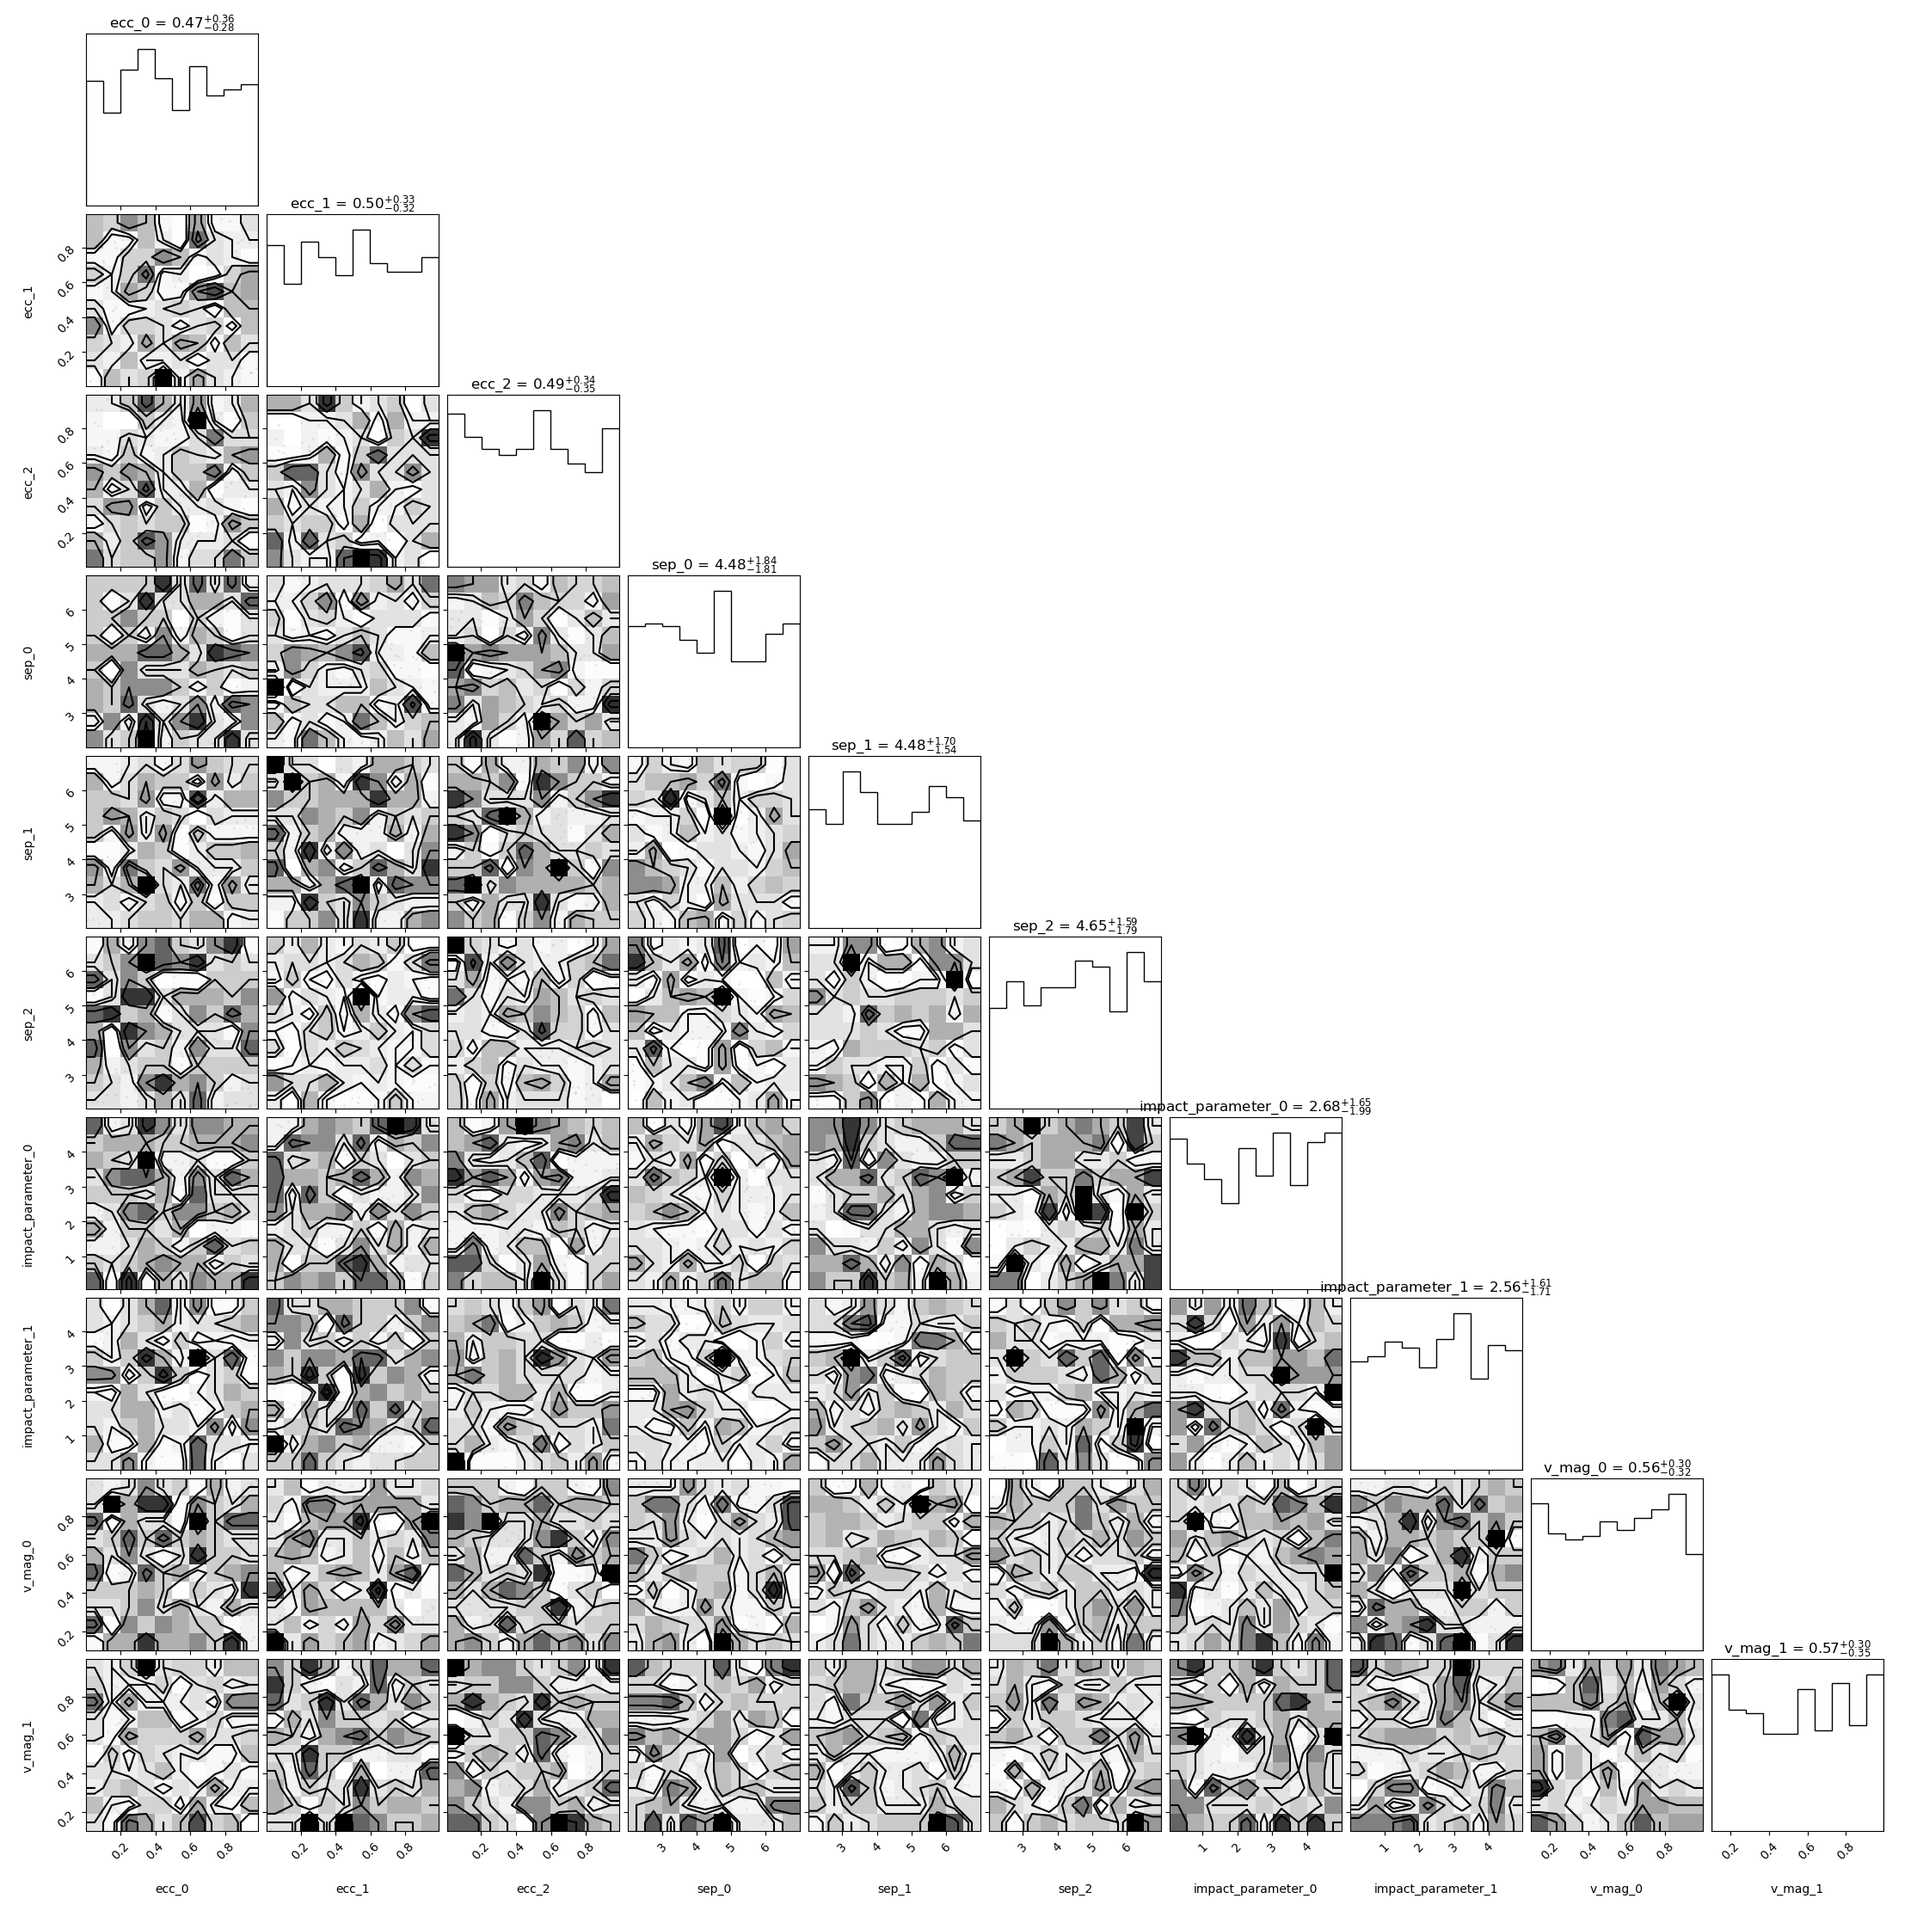
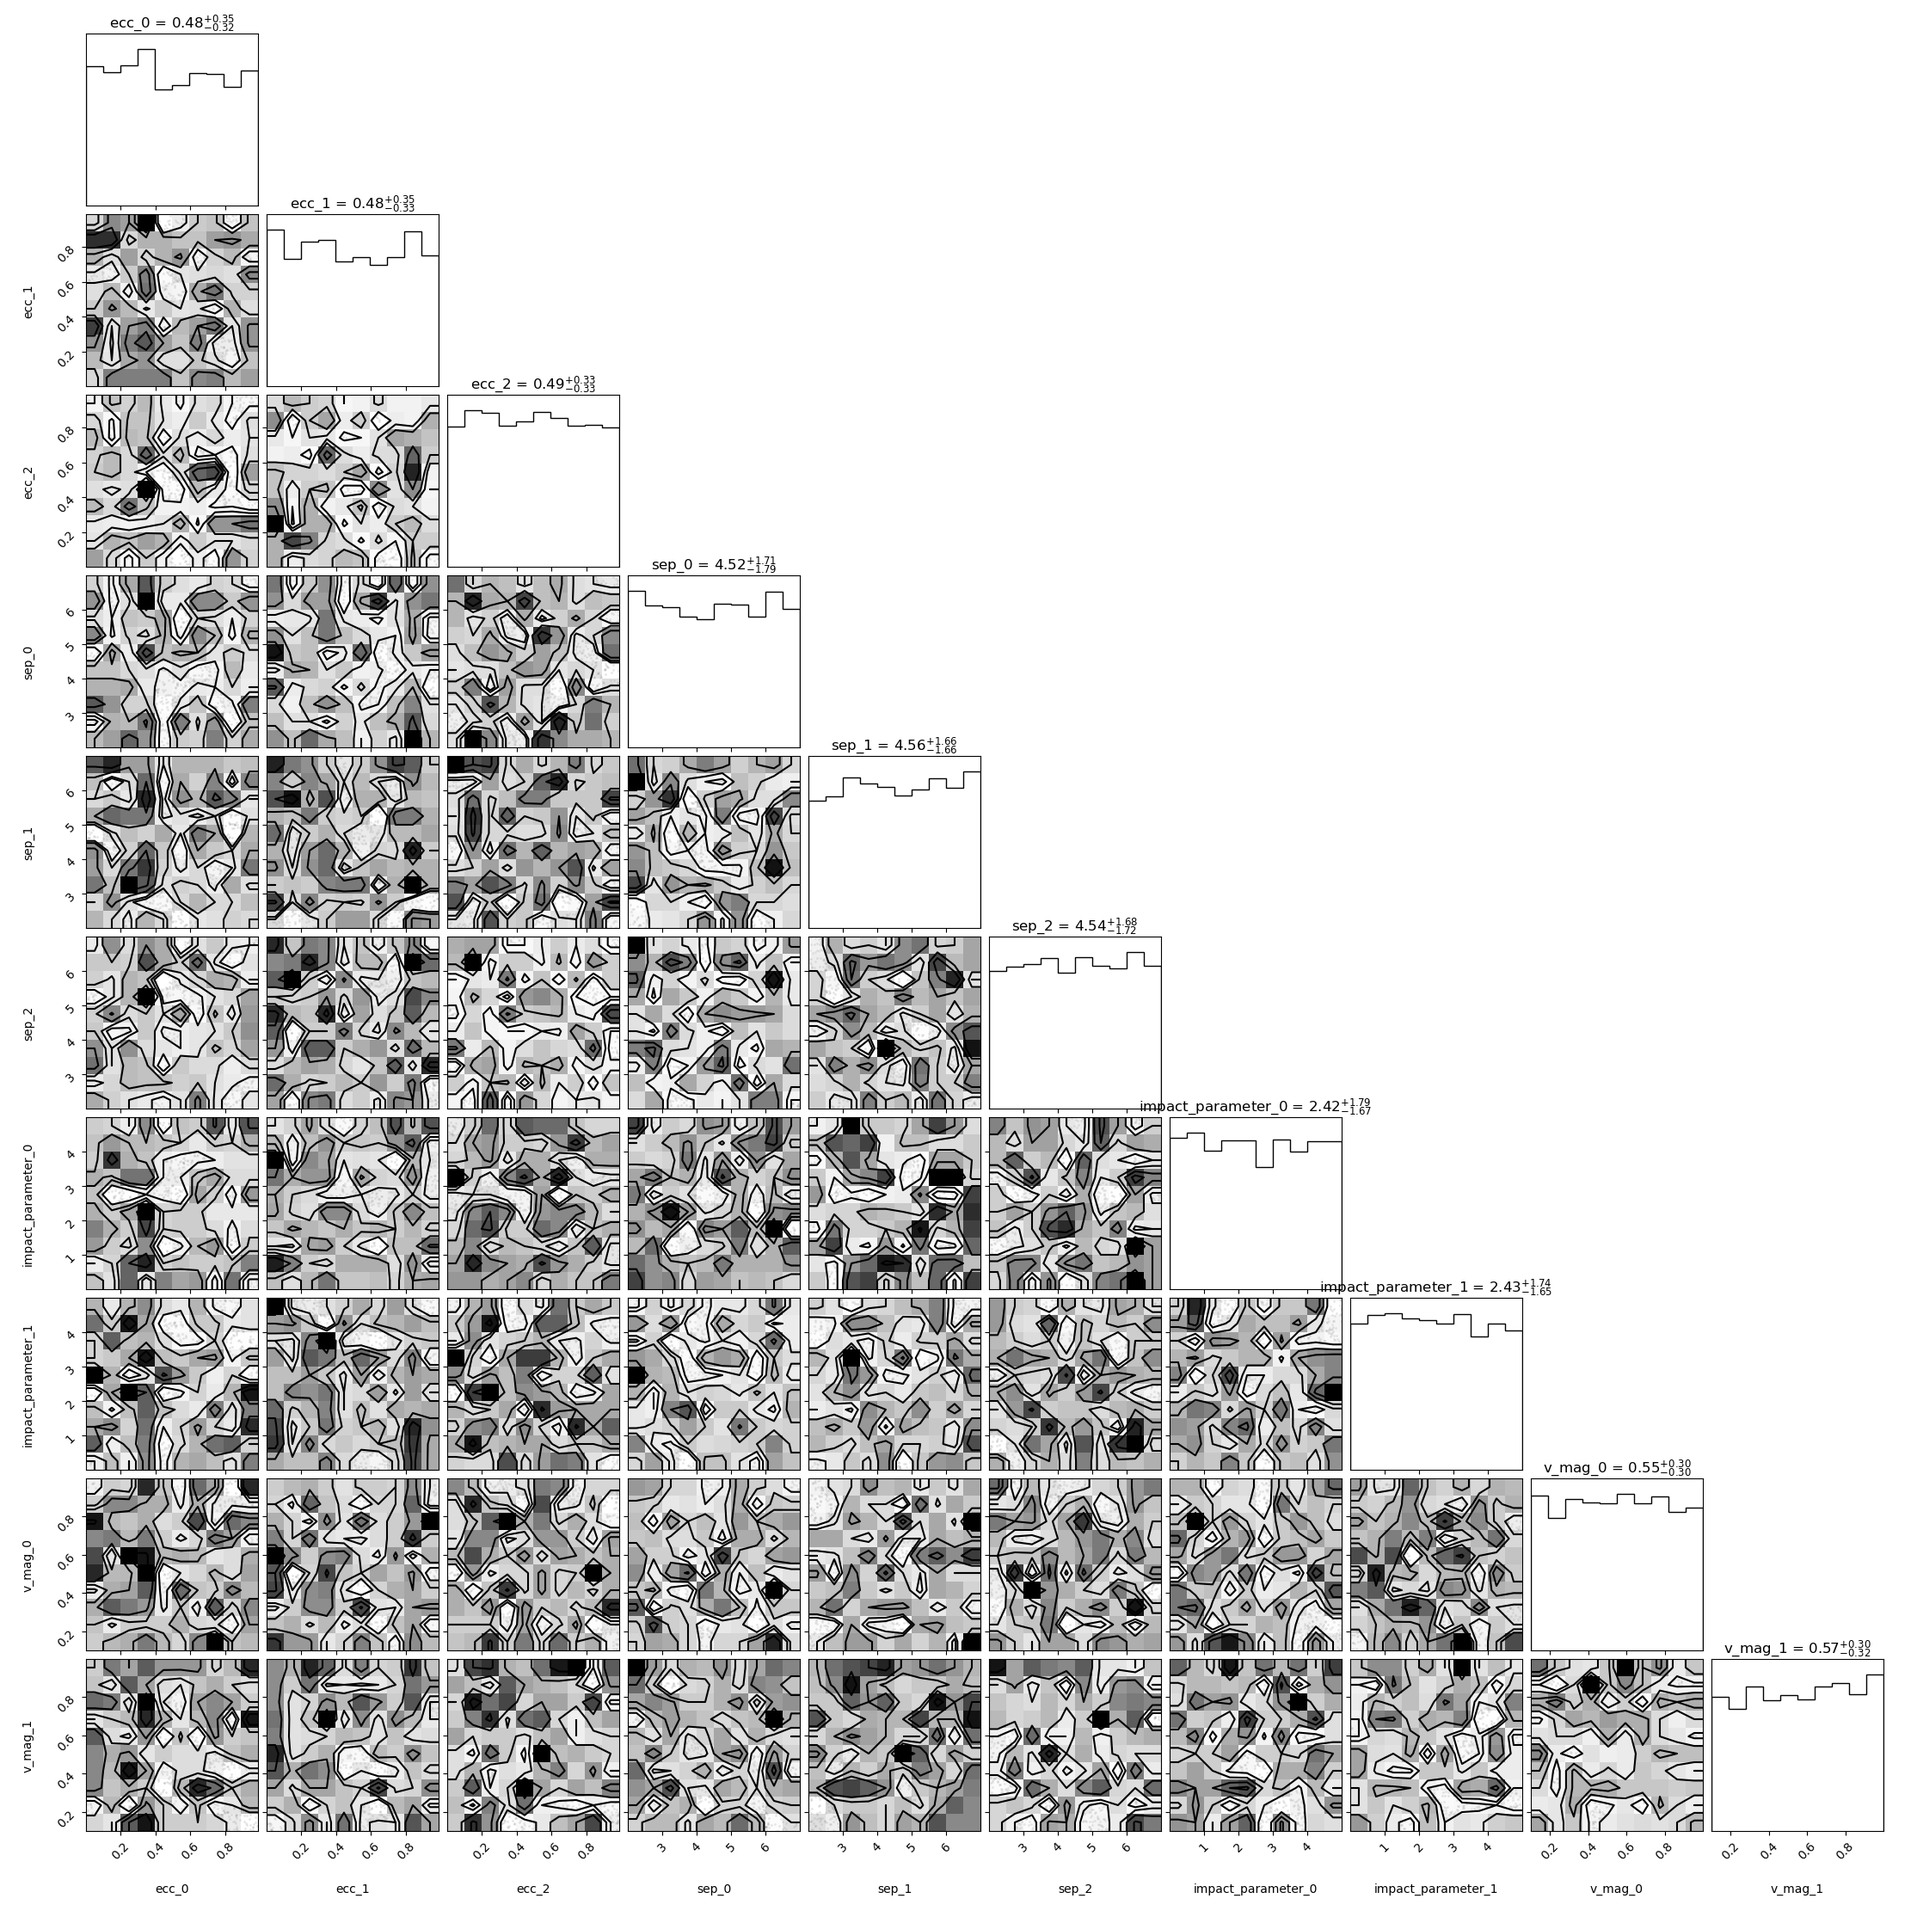
chore: preliminary project cleanup - style: formatter pass - feat: add config typing - chore: add gen plots from last mc run results from hpc

Changed region(s): [[0.031, 0.0929, 0.9596, 0.9596], [0.0619, 0.031, 0.1238, 0.0619]]

diff --git a/src/strw_amuse/utils/config.py b/src/strw_amuse/utils/config.py
@@ -1,33 +1,37 @@
 """
 Configuation file for the STRW-AMUSE project.
+- Contains global params for mc sampler and run args default.
 - Contain param setup for an example run of the scripts.
 - Contain file directory settings.
 """
 
 from dataclasses import dataclass
+from typing import Final  # <- Set global imutable cfg const
+
 import numpy as np
 
 # configs - dir
 # ================================================================================================ #
-OUTPUT_DIR_GIF = "./media/gif"
-OUTPUT_DIR_IMG = "./media/img"
-OUTPUT_DIR_COLLISIONS = "./data/collisions"
-OUTPUT_DIR_COLLISIONS_DIAGNOSTICS = "./data/collisions_diagnostics"
-OUTPUT_DIR_COLLISIONS_OUTCOMES = "./data/collisions_outcomes"
-OUTPUT_DIR_OUTCOMES = "./data/outcomes"
-OUTPUT_DIR_FINAL_STATES = "./data/final_states"
-OUTPUT_DIR_SNAPSHOTS = "./media/snapshots"
-OUTPUT_DIR_LOGS = "./data/logs"
-OUTPUT_DIR_MC = "./data/mc"
-OUTPUT_DIR_SAMPLER = './media/img/param'
+OUTPUT_DIR_COLLISIONS: Final = "./data/collisions"
+OUTPUT_DIR_COLLISIONS_DIAGNOSTICS: Final = "./data/collisions_diagnostics"
+OUTPUT_DIR_COLLISIONS_OUTCOMES: Final = "./data/collisions_outcomes"
+OUTPUT_DIR_FINAL_STATES: Final = "./data/final_states"
+OUTPUT_DIR_GIF: Final = "./media/gif"
+OUTPUT_DIR_IMG: Final = "./media/img"
+OUTPUT_DIR_LOGS: Final = "./data/logs"
+OUTPUT_DIR_MC: Final = "./data/mc"
+OUTPUT_DIR_OUTCOMES: Final = "./data/outcomes"
+OUTPUT_DIR_SAMPLER: Final = './media/img/param'
+OUTPUT_DIR_SNAPSHOTS: Final = "./media/snapshots"
 # ================================================================================================ #
 
 # configs - global param
 # ================================================================================================ #
-N_DIMS = 19
-N_SAMPLES = 10000
-SEED = 42
-BOUNDS = np.array(
+N_DIMS: Final = 19
+N_SAMPLES: Final = 10000
+SEED: Final = 42
+
+BOUNDS: Final = np.array(
     [
         [0.00, 0.99],  # ecc 1
         [0.00, 0.99],  # ecc 2
@@ -50,13 +54,16 @@ BOUNDS = np.array(
         [0.00, 2 * np.pi],  # true_anomalies 3
     ]
 )
-PARAM_CROSS_SECTION = {
+
+# configs - Plotter param selection
+# ================================================================================================ #
+PARAM_CROSS_SECTION: Final = {
     "impact parameter": ["impact_parameter_0", "impact_parameter_1"],
     "eccentricity": ["ecc_0", "ecc_1", "ecc_2"],
     "separation": ["sep_0", "sep_1", "sep_2"],
     "v_mag": ["v_mag_0", "v_mag_1"],
 }
-PARAM_CORNER = [
+PARAM_CORNER: Final = [
     "ecc_0",
     "ecc_1",
     "ecc_2",
@@ -75,6 +82,8 @@ PARAM_CORNER = [
 # ================================================================================================ #
 @dataclass
 class MonteCarloResult:
+    """Monte Carlo simulation results data class."""
+
     samples: np.ndarray
     param_names: list
     distances: np.ndarray
@@ -93,49 +102,29 @@ class MonteCarloResult:
 # configs - example run params
 # ================================================================================================ #
 # set ref param for no collison case
-PARAM_REF = (
-    # sep_ref | AU
-    [30, 20, 10],
-    # ecc_ref
-    [0.0, 0.0, 0.0],
-    # v_mag_ref
-    [2, 1],
-    # impact_parameter_ref | AU
-    [0.0, 10.0],
-    # theta_ref
-    [np.pi / 3, np.pi / 4],
-    # phi_ref
-    [np.pi, np.pi / 2],
-    # psi_ref
-    [np.pi / 2, np.pi],
-    # distance_ref | AU
-    [100, 100],
-    # true_anomalies_ref
-    [3 * np.pi / 4, np.pi / 4, 7 * np.pi / 4],
-    # label_ref
-    "ref_case",
+PARAM_REF: Final = (
+    [30, 20, 10],  # sep_ref | AU
+    [0.0, 0.0, 0.0],  # ecc_ref
+    [2, 1],  # v_mag_ref
+    [0.0, 10.0],  # impact_parameter_ref | AU
+    [np.pi / 3, np.pi / 4],  # theta_ref
+    [np.pi, np.pi / 2],  # phi_ref
+    [np.pi / 2, np.pi],  # psi_ref
+    [100, 100],  # distance_ref | AU
+    [3 * np.pi / 4, np.pi / 4, 7 * np.pi / 4],  # true_anomalies_ref
+    "ref_case",  # label_ref
 )
 # set test param for collison case with ionized collision
-PARAM_TEST = (
-    # sep_ref | AU
-    [30, 20, 10],
-    # ecc_ref
-    [0.0, 0.0, 0.0],
-    # v_mag_ref
-    [0.2, 0.2],
-    # impact_parameter_ref | AU
-    [0.0, 0.0],
-    # theta_ref
-    [np.pi / 4, np.pi / 4],
-    # phi_ref
-    [np.pi / 2, np.pi / 2],
-    # psi_ref
-    [np.pi / 2, np.pi / 2],
-    # distance_ref | AU
-    [50, 50],
-    # true_anomalies_ref
-    [3 * np.pi / 4, np.pi / 4, 7 * np.pi / 4],
-    # label_ref
-    "test_case",
+PARAM_TEST: Final = (
+    [30, 20, 10],  # sep_ref | AU
+    [0.0, 0.0, 0.0],  # ecc_ref
+    [0.2, 0.2],  # v_mag_ref
+    [0.0, 0.0],  # impact_parameter_ref | AU
+    [np.pi / 4, np.pi / 4],  # theta_ref
+    [np.pi / 2, np.pi / 2],  # phi_ref
+    [np.pi / 2, np.pi / 2],  # psi_ref
+    [50, 50],  # distance_ref | AU
+    [3 * np.pi / 4, np.pi / 4, 7 * np.pi / 4],  # true_anomalies_ref
+    "test_case",  # label_ref
 )
 # ================================================================================================ #

diff --git a/src/strw_amuse/plots/plotter.py b/src/strw_amuse/plots/plotter.py
@@ -379,7 +379,8 @@ def plot_cross_section(
     outcome_name : str
         Outcome to compute cross-section for (e.g., "Creative_ionized").
     param_groups : dict
-        Keys are plot titles / labels (e.g., "ecc") and values are lists of parameter names to marginalize over.
+        Keys are plot titles / labels (e.g., "ecc")
+            values are lists of parameter names to marginalize over.
         Example: {"ecc": ["ecc_0","ecc_1","ecc_2"], "sep": ["sep_0","sep_1","sep_2"]}
     n_bins : int
         Number of bins per parameter group.
@@ -498,14 +499,14 @@ def corner_for_outcome(
     # ---- 3. Check if sufficient data are present ----
     n_dims = data_to_plot.shape[1]
     if n_samples_plot < max(10, 2 * n_dims):
-        logger.info(f"Insufficient data, `corner_for_outcome()` skipped")
+        logger.info("Insufficient data, `corner_for_outcome()` skipped")
         return None
 
     # ---- 4. Make corner plot ----
     fig = corner.corner(
         data_to_plot, labels=labels, bins=bins, show_titles=show_titles, title_fmt=title_fmt
     )
-    plt.savefig(f'{save_dir}/corner_outcome.png')
+    plt.savefig(fig, f'{save_dir}/corner_outcome.png')
     plt.close()
 
 

diff --git a/main.py b/main.py
@@ -3,10 +3,10 @@ Main script for running the 6-body encounter simulation and visualization.
 """
 
 import multiprocessing
-from src.strw_amuse.sims import mc
-from src.strw_amuse.utils import logger
 
 from src.strw_amuse.plots import visualization
+from src.strw_amuse.sims import mc
+from src.strw_amuse.utils import logger
 
 if __name__ == "__main__":
     # init logger

diff --git a/src/strw_amuse/core/stopping.py b/src/strw_amuse/core/stopping.py
@@ -4,8 +4,8 @@ Stopping condition utilities for 6-body encounter simulation.
 
 # --- helper functions (local) ---
 import os
-import numpy as np
 
+import numpy as np
 from amuse.datamodel import Particle, Particles
 from amuse.datamodel.particle_attributes import bound_subset
 
